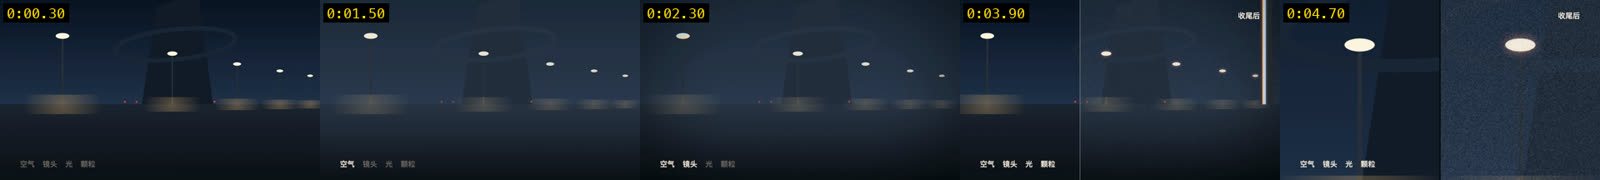
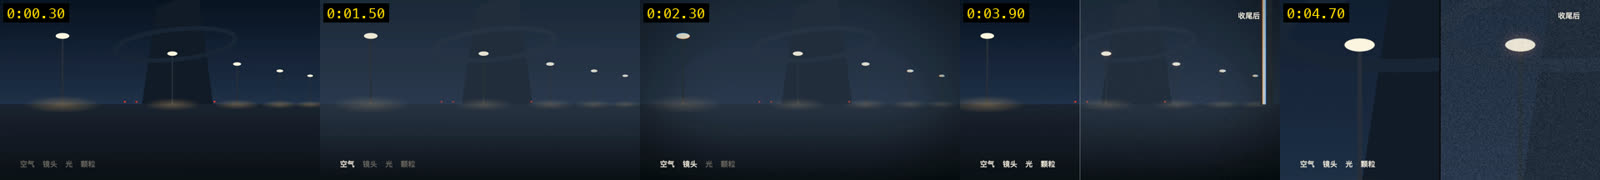
film-finish: the spill after the air and the lens, every pixel gathered, grain every frame
Review of #201. The bright pass read the clean picture, so a lamp the haze had dimmed
spilled as if there were no haze, and a lamp the vignette had darkened as if there
were none; now air and lens come first and the spill is taken from their result. The
spill was gathered with 40 taps on a spiral, which missed a light a pixel or two wide
(its glow swung 136 % across frames); now every source pixel is thresholded at a
quarter size and blurred by a separable Gaussian (7 %). Grain is new every frame by
default (24 on a 30 fps film held one frame in five); grain is its standard deviation
in the mid-tones. The sample's light pools are soft ellipses; it was rendered again
and is pixel-identical from 1 and 3 workers. playbook/08 says so, in its own words.

diff --git a/components/film-finish/component.js b/components/film-finish/component.js
@@ -1,13 +1,16 @@
 // film-finish — the last pass over a picture drawn by code. A render comes out too clean: no grain, light that stops at
 // its edge, corners as bright as the centre, colours that meet exactly, far things as crisp as near ones. A compositor
-// finishing a CG shot adds those back, in a fixed order and in small amounts; this pass does the same in one shader:
+// finishing a CG shot adds those back, in a fixed order and in small amounts; this pass does the same, in the order light
+// travels from the scene to the film:
 //   1. air      far things toward a haze colour and greyer (needs a depth picture: white = far)
 //   2. lens     red and blue a little apart toward the corners (radial chromatic aberration); the corners darker
-//   3. light    what is brighter than a threshold spills: a neutral bloom and a red-orange halation round it
-//   4. medium   grain, new every grain step, strongest in the mid-tones
+//   3. light    what is still brighter than a threshold after 1 and 2 spills: a neutral bloom and a red-orange halation
+//   4. medium   grain, new every frame by default, strongest in the mid-tones
 // The idea and the order follow a compositor's habit (light first, defects last, each kept small); the code is this
-// repository's own. state(params, t) is uniforms only (the grain's seed from the frame step: hard rule 1); canvas() runs
-// two WebGL2 passes (components/lib/gl.js): a quarter-size bright pass, then the full frame. playbook/08 成片的收尾.
+// repository's own. state(params, t) is uniforms only (the grain's seed from the frame: hard rule 1). canvas() runs five
+// WebGL2 passes (components/lib/gl.js): air and lens at full size; then, at a quarter, every pixel's light above the
+// threshold gathered (each source pixel read once, so a light one pixel wide is never missed) and blurred by a separable
+// Gaussian; then the spill and the grain at full size. playbook/08 成片的收尾.
 import { FRAME, frame, clamp, hash32, rgb } from "../lib/core.js";
 import { shader } from "../lib/gl.js";
 
@@ -21,52 +24,36 @@ export const defaults = {
   bloom: 0.10,          // light: neutral glow round what passes the threshold
   halation: 0.08,       // light: red-orange halo round it (film's)
   threshold: 0.8,       // light: the luma above which light spills (keep text that must be read under it)
-  radius: 0.012,        // light: how far it spills, a fraction of the frame's width
-  grain: 0.03,          // medium: grain strength in the mid-tones (0..1 of full scale)
+  radius: 0.012,        // light: how far it spills, a fraction of the frame's width (up to 0.05)
+  grain: 0.02,          // medium: the grain's standard deviation in the mid-tones (0..1 of full scale; 0.02 ≈ 5 levels)
   grainSize: 1.3,       // medium: a grain's size in CSS px
-  grainFps: 24,         // medium: new grain this many times a second (24 = film cadence; the frame rate = every frame)
+  grainFps: 0,          // medium: new grain this many times a second; 0 = every frame (see slots.json on 24)
   seed: 11,             // medium: a new seed, a new grain pattern
 };
 const opts = (p) => ({ ...defaults, ...p });
 
-/** The pass at t: its uniforms. Pure: the grain's seed comes from the grain step (frame(t) · grainFps / fps). */
+/** The pass at t: its uniforms. Pure: the grain's seed comes from the frame, or from the grain step when grainFps is set. */
 export function state(params, t) {
   const p = opts(params), k = clamp(p.amount, 0, 2);
-  const step = Math.floor(frame(t) * p.grainFps / FRAME.fps + 1e-9);
+  const step = p.grainFps > 0 ? Math.floor(frame(t) * p.grainFps / FRAME.fps + 1e-9) : frame(t);
   return {
     amount: clamp(k, 0, 1),
     haze: clamp(p.haze * k), hazeColor: rgb(p.hazeColor).map((v) => v / 255), hazeDesat: clamp(p.hazeDesat),
     aberration: Math.max(0, p.aberration * k), vignette: clamp(p.vignette * k),
-    bloom: Math.max(0, p.bloom * k), halation: Math.max(0, p.halation * k), threshold: clamp(p.threshold, 0, 0.99), radius: Math.max(0, p.radius),
+    bloom: Math.max(0, p.bloom * k), halation: Math.max(0, p.halation * k), threshold: clamp(p.threshold, 0, 0.99),
+    radius: clamp(p.radius, 0, 0.05),
     grain: Math.max(0, p.grain * k), grainSize: Math.max(0.5, p.grainSize), step,
     grainSeed: hash32(p.seed, step) & 0xffffff,   // < 2^24: exact as a float uniform
   };
 }
 
-// pass 1, quarter size: the light that spills, gathered over a disc (golden-angle spiral, Gaussian weights)
-const BRIGHT = `
-uniform float u_thr; uniform float u_radius; uniform float u_aspect;
-float luma(vec3 c) { return dot(c, vec3(0.2126, 0.7152, 0.0722)); }
-void main() {
-  vec3 acc = vec3(0.0); float wsum = 0.0;
-  for (int i = 0; i < 40; i++) {
-    float fi = float(i) + 0.5, r = sqrt(fi / 40.0), a = fi * 2.39996323;
-    vec2 o = vec2(cos(a), sin(a) * u_aspect) * r * u_radius;
-    vec3 c = texture(u_tex0, v_uv + o).rgb;
-    float w = exp(-3.0 * r * r), l = luma(c), k = clamp((l - u_thr) / (1.0 - u_thr), 0.0, 1.0);
-    acc += c * k * k * w; wsum += w;
-  }
-  outColor = vec4(acc / wsum, 1.0);
-}`;
+const LUMA = `float luma(vec3 c) { return dot(c, vec3(0.2126, 0.7152, 0.0722)); }\n`;
 
-// pass 2, full size: air, lens, light, grain, in that order
-const FINISH = `
-uniform float u_amount, u_haze, u_hazeDesat, u_ab, u_vig, u_bloom, u_hal, u_grain, u_grainSize, u_seed, u_dpr, u_hasDepth, u_aspect;
+// pass 1, full size: air, then the lens (aberration and vignette)
+const LENS = LUMA + `
+uniform float u_haze, u_hazeDesat, u_hasDepth, u_ab, u_vig, u_aspect;
 uniform vec3 u_hazeColor;
-uniform sampler2D u_bright; uniform sampler2D u_depth;
-float luma(vec3 c) { return dot(c, vec3(0.2126, 0.7152, 0.0722)); }
-uint pcg(uint v) { uint s = v * 747796405u + 2891336453u; uint w = ((s >> ((s >> 28u) + 4u)) ^ s) * 277803737u; return (w >> 22u) ^ w; }
-float rnd(uvec3 p) { return float(pcg(p.x ^ pcg(p.y ^ pcg(p.z)))) * (1.0 / 4294967295.0); }
+uniform sampler2D u_depth;
 vec3 scene(vec2 uv) {
   vec3 c = texture(u_tex0, uv).rgb;
   if (u_hasDepth > 0.5 && u_haze > 0.0) {
@@ -80,18 +67,60 @@ void main() {
   vec2 d = v_uv - 0.5;
   float r2 = dot(d * vec2(u_aspect, 1.0), d * vec2(u_aspect, 1.0)) / (0.25 * u_aspect * u_aspect + 0.25);   // 0 centre, 1 corner
   vec2 shift = d * r2 * u_ab * 2.0 * vec2(1.0, u_aspect);
-  vec3 raw = texture(u_tex0, v_uv).rgb;
   vec3 c = vec3(scene(v_uv + shift).r, scene(v_uv).g, scene(v_uv - shift).b);
   c *= 1.0 - u_vig * smoothstep(0.15, 1.0, r2);
-  vec3 b = texture(u_bright, v_uv).rgb;
-  vec3 add = b * u_bloom + b * vec3(1.0, 0.36, 0.14) * u_hal * 2.2;
+  outColor = vec4(c, 1.0);
+}`;
+
+// pass 2, quarter size: each output pixel is the mean of its block of source pixels, each thresholded first (soft knee)
+const GATHER = LUMA + `
+uniform float u_thr;
+void main() {
+  ivec2 full = textureSize(u_tex0, 0);
+  vec2 scale = vec2(full) / u_res;
+  ivec2 o = ivec2(floor(floor(gl_FragCoord.xy) * scale));
+  ivec2 n = max(ivec2(1), ivec2(ceil(scale)));
+  vec3 acc = vec3(0.0); float cnt = 0.0;
+  for (int j = 0; j < 8; j++) { if (j >= n.y) break;
+    for (int i = 0; i < 8; i++) { if (i >= n.x) break;
+      vec3 c = texelFetch(u_tex0, clamp(o + ivec2(i, j), ivec2(0), full - 1), 0).rgb;
+      float k = clamp((luma(c) - u_thr) / (1.0 - u_thr), 0.0, 1.0);
+      acc += c * k * k; cnt += 1.0;
+    } }
+  outColor = vec4(acc / cnt, 1.0);
+}`;
+
+// passes 3 and 4, quarter size: a Gaussian along one axis (u_dir), every texel within 2.5 sigma read once
+const BLUR = `
+uniform vec2 u_dir; uniform float u_sigma;
+void main() {
+  vec2 px = u_dir / u_res;
+  int n = int(ceil(2.5 * u_sigma));
+  vec3 acc = vec3(0.0); float wsum = 0.0;
+  for (int i = -64; i <= 64; i++) { if (i < -n || i > n) continue;
+    float w = exp(-0.5 * float(i * i) / (u_sigma * u_sigma));
+    acc += texture(u_tex0, v_uv + px * float(i)).rgb * w; wsum += w;
+  }
+  outColor = vec4(acc / wsum, 1.0);
+}`;
+
+// pass 5, full size: the spill over the lensed picture, then grain; mixed with the untouched picture by amount
+const FINISH = LUMA + `
+uniform float u_amount, u_bloom, u_hal, u_grain, u_grainSize, u_seed, u_dpr;
+uniform sampler2D u_glow; uniform sampler2D u_raw;
+uint pcg(uint v) { uint s = v * 747796405u + 2891336453u; uint w = ((s >> ((s >> 28u) + 4u)) ^ s) * 277803737u; return (w >> 22u) ^ w; }
+float rnd(uvec3 p) { return float(pcg(p.x ^ pcg(p.y ^ pcg(p.z)))) * (1.0 / 4294967295.0); }
+void main() {
+  vec3 c = texture(u_tex0, v_uv).rgb;
+  vec3 g = texture(u_glow, v_uv).rgb;
+  vec3 add = g * u_bloom + g * vec3(1.0, 0.36, 0.14) * u_hal * 2.2;
   c = 1.0 - (1.0 - c) * (1.0 - clamp(add, 0.0, 1.0));   // screen: light adds without clipping
   uvec2 cell = uvec2(floor(gl_FragCoord.xy / (u_grainSize * u_dpr)));
   uint s = uint(u_seed);
-  float n = (rnd(uvec3(cell, s)) + rnd(uvec3(cell, s ^ 0x9e3779b9u)) - 1.0) * 1.7;   // triangular, about unit spread
+  float n = (rnd(uvec3(cell, s)) + rnd(uvec3(cell, s ^ 0x9e3779b9u)) - 1.0) * 2.4494897;   // triangular, standard deviation 1
   float l = luma(c);
-  c += n * u_grain * (0.3 + 2.8 * l * (1.0 - l));
-  outColor = vec4(mix(raw, clamp(c, 0.0, 1.0), u_amount), 1.0);
+  c += n * u_grain * (0.3 + 2.8 * l * (1.0 - l));   // the weight is 1 at mid-grey: grain is the mid-tones' deviation
+  outColor = vec4(mix(texture(u_raw, v_uv).rgb, clamp(c, 0.0, 1.0), u_amount), 1.0);
 }`;
 
 const _sh = new Map();
@@ -106,15 +135,23 @@ export function canvas(ctx, st, src, { depth } = {}) {
   const W = FRAME.w, H = FRAME.h;
   if (st.amount <= 0) { ctx.drawImage(src, 0, 0, W, H); return; }
   const pw = Math.round(W * FRAME.dpr), ph = Math.round(H * FRAME.dpr), aspect = W / H;
-  const bright = sh("ff-bright", BRIGHT, Math.max(1, Math.round(pw / 4)), Math.max(1, Math.round(ph / 4)));
-  const glow = st.bloom > 0 || st.halation > 0 ? bright.render(0, { u_thr: st.threshold, u_radius: st.radius, u_aspect: aspect }, { u_tex0: src }) : null;
-  const fin = sh("ff-finish", FINISH, pw, ph);
-  const tex = { u_tex0: src, u_bright: glow || src };
-  if (depth) tex.u_depth = depth;
-  const out = fin.render(0, {
-    u_amount: st.amount, u_haze: st.haze, u_hazeDesat: st.hazeDesat, u_hazeColor: st.hazeColor, u_hasDepth: depth ? 1 : 0,
-    u_ab: st.aberration, u_vig: st.vignette, u_bloom: glow ? st.bloom : 0, u_hal: glow ? st.halation : 0,
-    u_grain: st.grain, u_grainSize: st.grainSize, u_seed: st.grainSeed, u_dpr: FRAME.dpr, u_aspect: aspect,
-  }, tex);
+  const qw = Math.max(1, Math.round(pw / 4)), qh = Math.max(1, Math.round(ph / 4));
+  const lensTex = { u_tex0: src };
+  if (depth) lensTex.u_depth = depth;
+  const lensed = sh("ff-lens", LENS, pw, ph).render(0, {
+    u_haze: st.haze, u_hazeDesat: st.hazeDesat, u_hazeColor: st.hazeColor, u_hasDepth: depth ? 1 : 0,
+    u_ab: st.aberration, u_vig: st.vignette, u_aspect: aspect,
+  }, lensTex);
+  let glow = null;
+  if (st.bloom > 0 || st.halation > 0) {
+    const sigma = Math.max(0.5, st.radius * qw / 2);   // the spill's reach (radius) is about two sigma
+    const gathered = sh("ff-gather", GATHER, qw, qh).render(0, { u_thr: st.threshold }, { u_tex0: lensed });
+    const across = sh("ff-blur-x", BLUR, qw, qh).render(0, { u_dir: [1, 0], u_sigma: sigma }, { u_tex0: gathered });
+    glow = sh("ff-blur-y", BLUR, qw, qh).render(0, { u_dir: [0, 1], u_sigma: sigma }, { u_tex0: across });
+  }
+  const out = sh("ff-finish", FINISH, pw, ph).render(0, {
+    u_amount: st.amount, u_bloom: glow ? st.bloom : 0, u_hal: glow ? st.halation : 0,
+    u_grain: st.grain, u_grainSize: st.grainSize, u_seed: st.grainSeed, u_dpr: FRAME.dpr,
+  }, { u_tex0: lensed, u_glow: glow || lensed, u_raw: src });
   ctx.drawImage(out, 0, 0, W, H);
 }

diff --git a/components/film-finish/sample/swatch.js b/components/film-finish/sample/swatch.js
@@ -33,7 +33,11 @@ function paint(x, mode, cam) {
   for (const L of [...LAMPS].sort((a, b) => b.z - a.z)) {
     const [px, py, s] = project(L.x, 0, L.z, cam), top = py - 4.2 * s;
     x.fillStyle = depth ? g(L.z) : "#2a313c"; x.fillRect(px - 0.06 * s, top, 0.12 * s, 4.2 * s);
-    if (!depth) { const pool = x.createRadialGradient(px, py, 0, px, py, 2.4 * s); pool.addColorStop(0, "rgba(255,196,120,0.30)"); pool.addColorStop(1, "rgba(255,196,120,0)"); x.fillStyle = pool; x.fillRect(px - 2.4 * s, py - 0.6 * s, 4.8 * s, 1.2 * s); }
+    if (!depth) {   // a pool of light on the ground: a radial gradient squashed into an ellipse, soft to its edge
+      x.save(); x.translate(px, py); x.scale(1, 0.22);
+      const pool = x.createRadialGradient(0, 0, 0, 0, 0, 2.4 * s); pool.addColorStop(0, "rgba(255,196,120,0.30)"); pool.addColorStop(1, "rgba(255,196,120,0)");
+      x.fillStyle = pool; x.beginPath(); x.arc(0, 0, 2.4 * s, 0, Math.PI * 2); x.fill(); x.restore();
+    }
     x.fillStyle = depth ? g(L.z) : "#fff6e2"; x.beginPath(); x.ellipse(px, top, 0.42 * s, 0.18 * s, 0, 0, Math.PI * 2); x.fill();
   }
   // a near post at the right, cut by the frame
@@ -46,7 +50,7 @@ function paint(x, mode, cam) {
 const ON = { air: 1.0, lens: 1.8, light: 2.6, grain: 3.1 }, SPLIT = 3.6;
 const ramp = (t, a) => Math.min(1, Math.max(0, (t - a) / 0.5));
 // the sample turns the defaults up a little, so a contact sheet at 480 px still shows each layer
-const P = { ...defaults, haze: 0.4, hazeColor: "#3a4a62", aberration: 0.0022, vignette: 0.32, bloom: 0.3, halation: 0.32, grain: 0.06 };
+const P = { ...defaults, haze: 0.4, hazeColor: "#3a4a62", aberration: 0.0022, vignette: 0.32, bloom: 0.3, halation: 0.36, threshold: 0.7, grain: 0.04 };
 const ZOOM = 4.3;   // from 4.3 s: a 3x crop round the nearest lamp head, clean left, finished right
 
 export function renderAt(t, ctx, tokens, lib) {

diff --git a/playbook/08-vfx-and-motion-sources.md b/playbook/08-vfx-and-motion-sources.md
@@ -149,33 +149,37 @@ const x = keyX(from.midi) + (keyX(to.midi) - keyX(from.midi)) * u;           // 
 ## 成片的收尾：给太干净的画面加一点缺陷
 <!-- know: finish, film look, halation, chromatic aberration, vignette, haze, 收尾, 去 CG 感, 光晕, 色散, 暗角, 空气透视, 胶片颗粒 -->
 
-代码渲出的画面，尤其是 3D，常常一眼就"假"，原因往往是太完美：没有颗粒，光到边缘就停，四角和中心一样亮，颜色严丝合缝，远处和近处一样清楚、一样饱和。视效合成师给 CG 镜头收尾时做的事，就是把真实摄影机带来的缺陷一样样加回去。分五类，每类对应一个能调的量：
+用代码渲出来的画面，3D 尤其如此，看着假，多半不是因为粗糙，而是因为每样东西都对得太准：画面平滑得没有一点颗粒，灯的亮光到灯罩边上就断了，画框四个角和正中一样亮，红绿蓝三层严丝合缝，五十米外的楼和眼前的桌子一样锐、一样艳。真摄影机拍不出这样的画面，观众说不出哪里不对，但会觉得是电脑做的。视效合成给 CG 镜头收尾，干的就是反过来的事：把摄影机和胶片本来会留下的毛病，少量地、按顺序补回去。按毛病出在哪一环，分五类：
 
-| 类 | 真实画面里是什么样 | 收尾时加什么 |
+| 出在哪一环 | 在真实画面里 | 收尾补什么 |
 |---|---|---|
-| 空气 | 越远越灰、越淡、越偏天空的颜色；巨物靠这层空气才显得大 | 按距离往雾色和灰里推（`film-finish` 的 `haze`；Three.js 用 `scene.fog`） |
-| 镜头 | 四角暗一点；越往边缘红和蓝错开得越多，中心不错开 | 暗角、径向色散 |
-| 光 | 强光溢出来，高光外有一圈柔光，胶片上还带一圈红橙色 | 高于阈值的部分外溢：中性的 bloom 加红橙的 halation |
-| 介质 | 颗粒每一帧都在变，中间调最明显 | 按帧变化的颗粒 |
-| 焦点 | 只有一个很薄的平面是清楚的 | 景深（3D 引擎自己做：Three.js 的景深后期、Blender 的 DOF），不在这一遍里 |
+| 空气 | 隔着的空气越厚，东西越发灰、越淡，颜色向天色靠；尺度感很大一部分来自这里 | 按距离往雾色和灰里推（`film-finish` 的 `haze`；Three.js 用 `scene.fog`） |
+| 镜头 | 画框边上比中间暗；越靠边，不同颜色的光折射得越不齐，中间几乎对齐 | 暗角、由中心向外加大的色散 |
+| 光 | 很亮的地方会向四周晕开，胶片的乳剂层还会在亮处外面泛出一圈偏红的光 | 过了阈值的亮处外溢：中性的 bloom，加一圈偏红橙的 halation |
+| 底片或传感器 | 有颗粒，每一帧的颗粒都不一样，中间调最显 | 逐帧更换的颗粒 |
+| 对焦 | 清楚的只有离镜头某个距离上薄薄的一层 | 景深，交给 3D 引擎（Three.js 的景深后期、Blender 相机的光圈），不在这一遍里 |
 
-**什么时候加**：画面要像"拍出来的"时：3D 产品片、Blender 出片、走进去的世界、要和生成片段剪在一起的代码画面（`05-hybrid-genvideo.md` 的"与代码画面匹配"）。平面图形、排版、像素和矢量风格、3b1b 式的讲解图、真实 UI 演示，本来就不装作是摄影机拍的，一般不加；加了反而让截图发糊、让线条发脏。
+**什么时候加**：画面要让人当成"拍出来的"时：3D 产品片、Blender 出的片、走进去的世界、要和生成片段剪在一起的代码画面（`05-hybrid-genvideo.md` 的"与代码画面匹配"）。平面图形、排版、像素和矢量风格、3b1b 式的讲解图、真实 UI 演示，本来就不假装是摄影机拍的，一般不加；加了只会让截图发糊、细线发脏。
 
-**加多少**：小到说不出加了什么，但关掉就觉得少了点什么。一个试法：按目标屏的大小看，观众能指着说"这里有色散""这里有暗角"，就是加多了。`film-finish` 的默认值就在这个量上；`amount`（0–2）一把调整体强弱，可以像上面的预设栈那样做两三档给人选，选定的写进 STYLE.md。
+**加多少**：以观众指不出来为度。试法：缩到目标屏的大小看，能一眼说出"这里有色散""四角压暗了"，就是多了；全部关掉再看，画面又像回到了电脑里，就是够了。`film-finish` 的默认值按这个量取；`amount`（0–2）一把调整体，可以像上面的预设栈那样做两三档给人选，选定的写进 STYLE.md。
 
 **顺序**：
-1. **先定光，缺陷最后加。** 几乎所有缺陷都由光引起：画面里没有一盏看得见的灯，就不会有光晕、眩光和焦外光斑。先在场景里把光源定下来，而且宁少勿多：一两盏主光、几个看得见的点光源，大部分画面留在暗处，比四面打亮更像电影（Blender 那条路线的经验同样如此，见 `engines/blender.md`）。
-2. 收尾按"空气 → 镜头 → 光的外溢 → 颗粒"走，这也是光从场景到底片的顺序。`film-finish` 一遍里就是这个顺序。
-3. **颗粒放在最后**：调色、放大、和生成片段匹配之后再加，一次加在整个画面上（`05-hybrid-genvideo.md` (b)：先放大再加颗粒，颗粒才不会被放大糊掉）。
-4. **要读的字在这一遍之后画**，不吃颗粒，也不被外溢的光烧白（上面"光效不能把字烧掉"那条底线）；字非要留在画面层里时，把 `threshold` 放在字的亮度之上。
+1. **光先定好，毛病最后补。** 这几类毛病大多跟着光来：画面里没有看得见的光源，外溢、眩光、焦外光斑都无从谈起，补了也不像。所以先在场景里把灯摆好，而且少摆：一两盏主光加几个看得见的小光源，让大片画面待在暗处，比四面打亮更有电影感（Blender 那条路线也是这个经验，见 `engines/blender.md`）。
+2. 收尾按"空气 → 镜头 → 光的外溢 → 颗粒"走，也就是光从场景出发、穿过空气和镜头、落到底片上的顺序。`film-finish` 就照这个顺序做：外溢取的是已经过了空气和镜头的画面，所以被雾吃掉一层的远灯晕得更弱，四角被暗角压过的亮处也晕得更弱。
+3. **颗粒最后加**：调色、放大、和生成片段对齐之后，一次加在整个画面上（`05-hybrid-genvideo.md` (b)：先放大再加颗粒，颗粒才不会被放大糊掉）。
+4. **要读的字在这一遍之后画**，不吃颗粒，也不被外溢的光烧白（上面"光效不能把字烧掉"那条底线）；字非留在画面层不可时，把 `threshold` 设在字的亮度之上。
 
-**确定性**：颗粒按帧号取种子（`grainFps` 默认 24，即在 30 fps 的时间轴上按胶片的节奏换），同一帧永远是同一片颗粒，乱序渲也一样。`film-finish` 的样片在 1 个和 3 个 worker 下渲出的 150 帧逐像素相同（`styles/_swatch/determinism.sh`）【实测】。
+**颗粒怎么换、为什么仍是 t 的纯函数**：种子取自帧号，同一帧永远是同一片颗粒，乱序渲也一样。默认每一帧换一次（`grainFps: 0`）。想要胶片那样 24 次每秒，只在 24 fps 的片子上这样设：在 30 fps 的时间轴上设 24，每 5 帧就有一帧沿用上一帧的颗粒，颗粒会有每秒 6 次的顿挫；30 fps 的片子要放慢就设 15（两帧换一次）。`grain` 是中间调里颗粒的标准差，0.02 约是 255 级里的 5 级。
+
+**外溢不会漏掉小灯**：外溢先在四分之一分辨率上把原图的像素逐个读一遍，过阈值的才留下，再做两遍可分离的高斯模糊。省事的做法是在每个点周围的圆盘上取几十个采样点，可采样点之间的空隙放得下一盏小灯：一个 2 像素宽、每帧挪 3 像素的光点，用 40 个采样点时光晕的能量在几帧之间起伏 136%，忽有忽无；逐个读像素后是 7%（`tools/ci.sh` 里有这一项）【实测】。
+
+**确定性**：`film-finish` 的样片在 1 个和 3 个 worker 下渲出的 150 帧逐像素相同（`styles/_swatch/determinism.sh`，2026-11-15 改版后重跑）【实测】。
 
 **怎么接**：
 - **canvas、HyperFrames 的 canvas 层、canvas-film**：`bin/vh components add <项目> film-finish`，每帧先把画面画进一张离屏 canvas，再 `canvas(ctx, state(params, t), src, { depth })` 画到屏上；`depth` 是同尺寸的一张灰度图，白 = 远，没有就不开空气。参数表在 `components/film-finish/slots.json`，样子看 `components/film-finish/sample/media/sheet.jpg`（最后一格是 3 倍放大的左右对比，颗粒和光晕在那里看得清）。
 - **Three.js**：空气用 `scene.fog`（`FogExp2`，雾色取地平线的天色），按真实距离算，比深度图准；渲完把渲染器的 canvas 当 `src` 交给 `film-finish`，`haze` 留 0。
 - **Blender**：空气交给体积或雾，景深交给相机；镜头、光的外溢和颗粒可以在 Cycles 里干净地出片，再用下面那条 ffmpeg 加在成片上。
-- **生成的图和视频**：提示词里写光源和要的缺陷（`05-hybrid-genvideo.md` 的"镜头卡"），但颗粒和光晕让模型留空，后期加：模型画的颗粒常常是糊的、不跟着画面变。
+- **生成的图和视频**：提示词里写光源和要的缺陷（`05-hybrid-genvideo.md` 的"镜头卡"），颗粒和光晕却不交给模型画：它画出的颗粒往往是一层固定的糊斑，不随画面换，光晕也时常成了一团。这两样留到后期，按帧加。
 
 ## 成片后处理（ffmpeg，可选）
 
